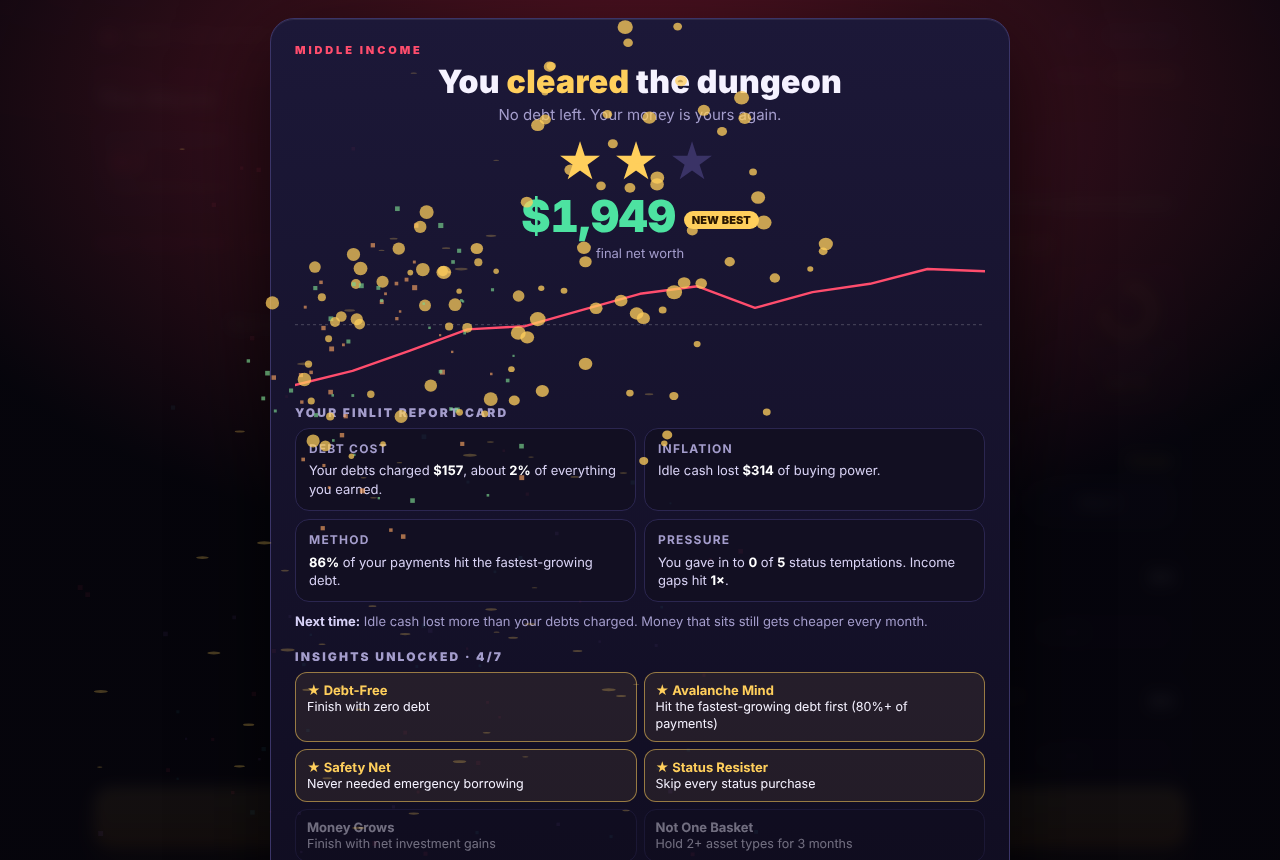
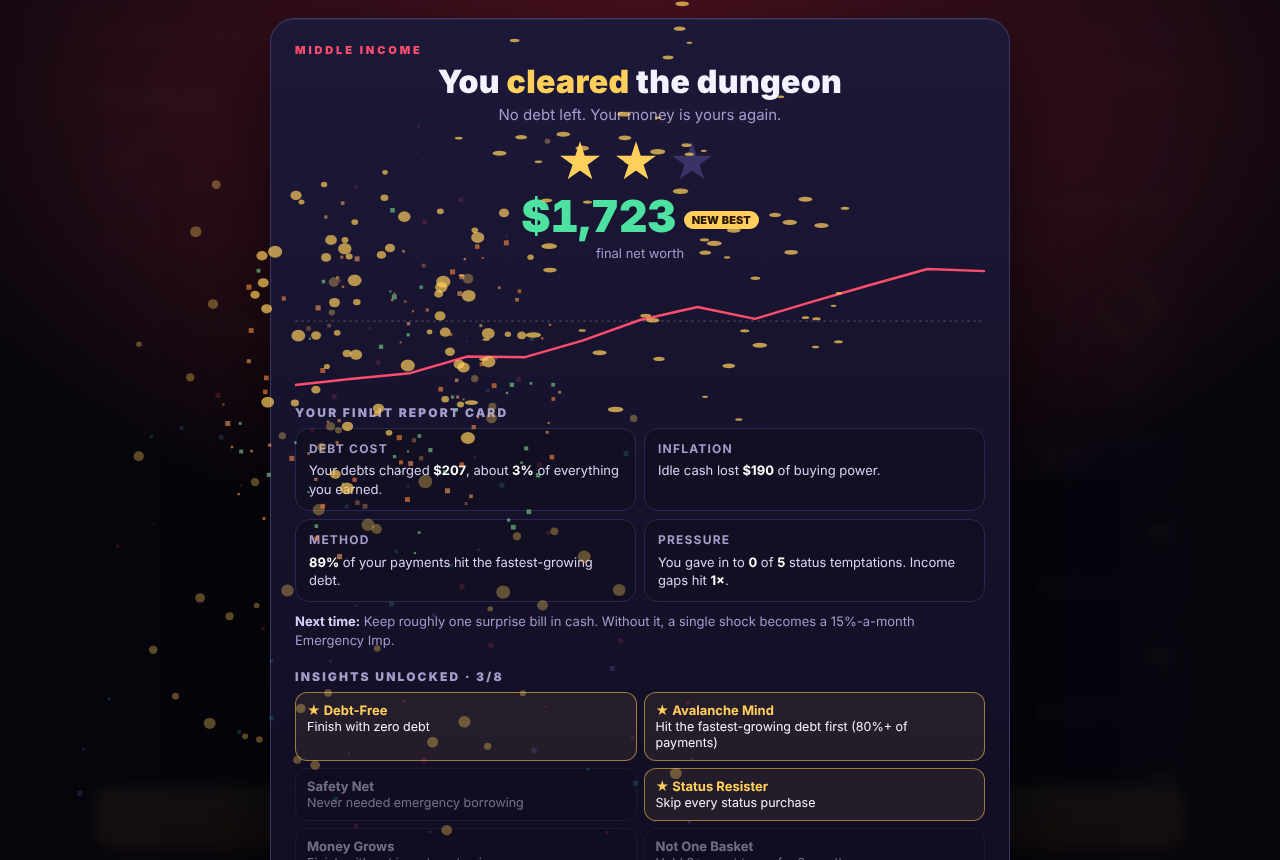
Add Insurance Shield mechanic, video script and budget draft
Claude-Session: https://claude.ai/code/session_018JD6s2syzimkdXhJeBHTZL

diff --git a/index.html b/index.html
@@ -131,6 +131,10 @@ main{display:grid;grid-template-columns:1.25fr 1fr;gap:14px}
 .nw b{font-size:20px;font-variant-numeric:tabular-nums}
 .nw .spark{grid-row:1/3;grid-column:2;width:120px;height:34px;justify-self:end;color:var(--accent)}
 .nw small{color:var(--mute);font-size:12px}
+.shield{margin-top:11px;display:flex;align-items:center;gap:11px;padding:11px 13px;border-radius:16px;border:1px solid #ffffff1f;background:#ffffff08}
+.shield.on{border-color:#4de2a1aa;background:#4de2a114}
+.shield .si{font-size:22px;width:30px;text-align:center}
+.shield .st{flex:1;min-width:0}.shield .st b{display:block;font-size:14.5px}.shield .st small{display:block;font-size:12px;color:var(--mute);line-height:1.35}
 .tempt{margin-top:11px;padding:13px 14px;border-radius:16px;border:1px dashed #6ea8ffaa;background:#6ea8ff12}
 .tempt small{display:block;font-size:10.5px;letter-spacing:.13em;font-weight:800;color:#9fc0ff}
 .tempt .tn{font-weight:800;margin:5px 0 9px;display:flex;justify-content:space-between;gap:8px;font-size:15.5px}
@@ -321,10 +325,10 @@ const ASSETS={
   dragon:{name:"Dragon Stock",exp:.040,desc:"≈ +4%/mo · wild swings"}
 };
 const EVENTS=[
-  {name:"Car breaks down",txt:"Repair bill",cash:-250,t:"bad"},
-  {name:"Medical bill",txt:"Unexpected clinic visit",cash:-300,t:"bad"},
+  {name:"Car breaks down",txt:"Repair bill",cash:-250,t:"bad",ins:1},
+  {name:"Medical bill",txt:"Unexpected clinic visit",cash:-300,t:"bad",ins:1},
   {name:"Rent goes up",txt:"Extra housing cost",cash:-150,t:"bad"},
-  {name:"Phone dies",txt:"Replacement needed",cash:-200,t:"bad"},
+  {name:"Phone dies",txt:"Replacement needed",cash:-200,t:"bad",ins:1},
   {name:"Surprise bonus",txt:"Work bonus",cash:200,t:"good"},
   {name:"Side gig",txt:"Weekend job pays",cash:120,t:"good"},
   {name:"Market boom",txt:"Investments jump",mkt:"boom",t:"good"},
@@ -343,6 +347,7 @@ const ACH=[
   {id:"stat",name:"Status Resister",desc:"Skip every status purchase"},
   {id:"grow",name:"Money Grows",desc:"Finish with net investment gains"},
   {id:"div",name:"Not One Basket",desc:"Hold 2+ asset types for 3 months"},
+  {id:"shield",name:"Shielded",desc:"Insurance paid out when disaster struck"},
   {id:"pro",name:"Dungeon Master",desc:"Earn 3 stars"}
 ];
 
@@ -509,8 +514,8 @@ function newGame(tier,mode){
   if(mode==="daily"){label=new Date().toISOString().slice(0,10);seed=hashStr(label+"|"+tier);R=mulberry32(seed)}else R=Math.random;
   const t0=TIERS[tier];
   S={tier,mode,label,seed,month:1,cash:t0.cash,assets:{vault:0,index:0,dragon:0},mons:[],pp:1,over:false,done:false,
-     stats:{interest:0,infl:0,inv:0,seen:0,bought:0,onCard:0,gap:0,pays:0,payOK:0,emerg:0,divMonths:0,acts:0},
-     status:0,temp:null,salaryMult:1,nid:1,busy:false,hist:[],income:t0.cash,lastNW:0,tok:0};
+     stats:{interest:0,infl:0,inv:0,seen:0,bought:0,onCard:0,gap:0,pays:0,payOK:0,emerg:0,divMonths:0,acts:0,insPaid:0,insSaved:0,insHit:0},
+     status:0,ins:false,temp:null,salaryMult:1,nid:1,busy:false,hist:[],income:t0.cash,lastNW:0,tok:0};
   addMon("card",t0.debts.card);addMon("student",t0.debts.student);addMon("shark",t0.debts.shark);
   S.hist=[netWorth()];S.lastNW=netWorth();
 }
@@ -524,6 +529,8 @@ function buyTemp(onCard){
   S.status+=10;S.stats.bought++;S.stats.acts++;S.temp=null;sfx.coin();flash("#6ea8ff");
   toast(onCard?"Bought on credit. The Wyrm just grew.":"Bought with cash. Status +10, wealth +0.");render();
 }
+const premium=()=>Math.max(1,Math.round(T().salary*.10));
+function toggleIns(){if(S.busy||S.over)return;S.ins=!S.ins;S.stats.acts++;sfx.coin();toast(S.ins?`Shield ON. ${fmt(premium())} a month, paid when the month ends.`:"Shield OFF. Disasters are on you.");render()}
 function skipTemp(){if(S.busy||S.over||!S.temp)return;S.temp=null;S.stats.acts++;sfx.coin();toast("Skipped. Future you says thanks.");render()}
 
 /* ---------- render ---------- */
@@ -575,6 +582,8 @@ function render(){
       <div class="tb"><button class="btn" data-tbuy="cash" ${S.cash<S.temp.cost?"disabled":""}>Buy with cash</button>
       <button class="btn" data-tbuy="card">Put it on credit</button>
       <button class="btn" data-tskip="1">Skip it</button></div></div>`:""}
+    <div class="shield ${S.ins?"on":""}"><div class="si">${S.ins?"🛡":"◇"}</div><div class="st"><b>Insurance Shield</b><small>${S.ins?"ON · covers 80% of car, medical and phone bills":"Costs "+fmt(premium())+"/month · covers 80% of car, medical and phone bills"}</small></div>
+      <button class="btn" data-ins="1" aria-pressed="${S.ins}">${S.ins?"Turn off":"Turn on"}</button></div>
     <div class="assets">${Object.keys(ASSETS).map(k=>{
       const a=ASSETS[k],v=S.assets[k],r=real(k),can=Math.min(S.cash,T().chunk),sell=Math.min(v,T().chunk);
       const g=(tutOn()&&step===1&&k==="index"&&can>0)?" glow":"";
@@ -638,6 +647,7 @@ function endMonth(){
   const loss=Math.round(S.cash*inf);S.cash-=loss;S.pp*=(1-inf);S.stats.infl+=loss;
   rep.push(["a",`▼ Inflation ${pct(inf)} ate your cash`,`−${fmt(loss)}`]);
   const ev=R()<T().evFreq?EVENTS[Math.floor(R()*EVENTS.length)]:null;
+  if(S.ins){const pr=Math.min(premium(),Math.max(0,S.cash));S.cash-=pr;S.stats.insPaid+=pr;rep.push(["a","🛡 Insurance premium",`−${fmt(pr)}`])}
   let gain=0;Object.keys(S.assets).forEach(k=>{const v=S.assets[k];if(v<=0)return;const nv=Math.round(v*(1+assetReturn(k,ev)));gain+=nv-v;S.assets[k]=nv});
   S.stats.inv+=gain;
   if(totalAssets()+Math.abs(gain)>0)rep.push([gain>=0?"g":"r",gain>=0?"▲ Investments grew":"▼ Investments fell",(gain>=0?"+":"−")+fmt(Math.abs(gain))]);
@@ -648,7 +658,8 @@ function endMonth(){
       const evc=sc(ev.cash);
       if(evc>=0){S.cash+=evc;rep.push(["g",`${ev.name}: ${ev.txt}`,`+${fmt(evc)}`])}
       else{
-        const cost=-evc;
+        let cost=-evc;
+        if(S.ins&&ev.ins){const cov=Math.round(cost*.8);cost-=cov;S.stats.insSaved+=cov;S.stats.insHit++;rep.push(["g","🛡 Shield covered 80% of the bill",`+${fmt(cov)}`])}
         if(S.cash>=cost){S.cash-=cost;rep.push(["r",`${ev.name}: ${ev.txt}`,`−${fmt(cost)}`])}
         else{
           const short=cost-S.cash;S.cash=0;addMon("emerg",short);S.stats.emerg++;
@@ -696,6 +707,7 @@ function unlocked(survived,stars){
   if(survived&&st.seen>=3&&st.bought===0)u.push("stat");
   if(survived&&st.inv>0)u.push("grow");
   if(st.divMonths>=3)u.push("div");
+  if(st.insHit>0)u.push("shield");
   if(stars===3)u.push("pro");
   return u;
 }
@@ -734,6 +746,7 @@ function finish(survived,m){
       <div class="tile"><b>METHOD</b>${st.pays?`<strong>${Math.round(st.payOK/st.pays*100)}%</strong> of your payments hit the fastest-growing debt.`:"You made no payments."}</div>
       <div class="tile"><b>PRESSURE</b>${st.seen?`You gave in to <strong>${st.bought}</strong> of <strong>${st.seen}</strong> status temptations${st.onCard?` (${st.onCard} on credit)`:""}.`:"No status temptations showed up."} ${st.gap?`Income gaps hit <strong>${st.gap}×</strong>.`:""}</div>
     </div>
+    ${st.insPaid||st.insHit?`<p class="note"><b>Insurance:</b> you paid <strong>${fmt(st.insPaid)}</strong> in premiums and it covered <strong>${fmt(st.insSaved)}</strong> of bills. ${st.insSaved>=st.insPaid?"This time it paid off. Even when it doesn't, you are buying protection from a crisis, not a profit.":"This time it cost more than it paid back. That is normal: insurance is a price for safety, and it matters most in the one month you can't afford."}</p>`:""}
     <p class="note"><b>Next time:</b> ${tipFor()}</p>
     ${real}
     <h2>INSIGHTS UNLOCKED · ${all.length}/${ACH.length}</h2>
@@ -815,8 +828,9 @@ function openHelp(){
     <dt>Inflation</dt><dd>Prices rise, so each dollar buys less. Cash loses value even while it sits still.</dd>
     <dt>Avalanche method</dt><dd>Pay the highest-rate debt first. It costs the least interest.</dd>
     <dt>Emergency fund</dt><dd>Cash set aside for surprises so one bad month does not become debt.</dd>
+    <dt>Insurance</dt><dd>You pay a small, certain cost so a big, uncertain one cannot wreck you. It will not cover everything (a party or a rent rise is on you).</dd>
     <dt>Diversification</dt><dd>Spreading money across assets so one crash cannot sink you.</dd></dl>
-    <p class="note">Shortcuts: <kbd>1</kbd>–<kbd>9</kbd> pay a monster (<kbd>Shift</kbd> = pay all) · <kbd>Enter</kbd> or <kbd>E</kbd> end month · <kbd>?</kbd> this help</p>
+    <p class="note">Shortcuts: <kbd>1</kbd>–<kbd>9</kbd> pay a monster (<kbd>Shift</kbd> = pay all) · <kbd>I</kbd> insurance · <kbd>Enter</kbd> or <kbd>E</kbd> end month · <kbd>?</kbd> this help</p>
     <button class="go" id="closeHelp">GOT IT</button></div>`;
   o.classList.add("on");o.scrollTop=0;$("#closeHelp").onclick=closeHelp;try{$("#closeHelp").focus({preventScroll:true})}catch(e){}
 }
@@ -832,6 +846,7 @@ document.addEventListener("click",e=>{
   else if(t.dataset.sell)sell(t.dataset.sell);
   else if(t.dataset.tbuy)buyTemp(t.dataset.tbuy==="card");
   else if(t.dataset.tskip)skipTemp();
+  else if(t.dataset.ins)toggleIns();
   else if(t.dataset.mode){MODE=t.dataset.mode;store.set("mode",MODE);showTitle()}
   else if(t.dataset.tier){$("#ov").classList.remove("on");newGame(t.dataset.tier,MODE);render();beep(440,.1,"triangle");if(!store.get("tut"))say("Tutorial: tap PAY on the fastest-growing debt.")}
   else if(t.id==="helpLink"||t.id==="help")openHelp();
@@ -847,10 +862,11 @@ document.addEventListener("keydown",e=>{
   if(e.key==="Enter"){if(!btn){e.preventDefault();endMonth()}return}
   if(e.key==="e"||e.key==="E"){endMonth();return}
   if(e.key==="?"){openHelp();return}
+  if(e.key==="i"||e.key==="I"){toggleIns();return}
   const n=parseInt(e.key,10);if(n>=1&&n<=S.mons.length)pay(S.mons[n-1].id,e.shiftKey);
 });
 setSound(A.on);
-window.__game={get S(){return S},endMonth,pay,invest,sell,newGame,render,buyTemp,skipTemp,rollTemptation,showTitle,drawCard,starsFor,seed:n=>{R=mulberry32(n)}};
+window.__game={get S(){return S},endMonth,pay,invest,sell,newGame,render,buyTemp,skipTemp,rollTemptation,showTitle,drawCard,starsFor,toggleIns,seed:n=>{R=mulberry32(n)}};
 bgInit();fxInit();newGame("mid",MODE);render();showTitle();
 })();
 </script>

diff --git a/docs/GDD.md b/docs/GDD.md
@@ -38,6 +38,7 @@ Most money games teach one concept at a time. Real money problems arrive togethe
 | Safety Net | Cash ÷ a typical surprise bill. Under 1× the gauge turns red. | Emergency fund |
 | Events | Repair, medical, rent rise, celebration, bonus, side gig, market boom/crash, income gap. Without cash, a bill spawns a 15%/month Emergency Imp. | Shocks, single-income risk |
 | Status temptations | Optional "everyone has one" purchases. Cash or credit; both raise a status score that does not build wealth. | Lifestyle inflation, credit use |
+| Insurance Shield | Optional. Premium 10% of pay each month; covers 80% of car, medical and phone bills (not rent rises or celebrations). Roughly break-even over a run; its value is avoiding the one bad month. | Insurance, risk transfer |
 | Floors | Months 1–4 Cellar, 5–8 Vaults, 9–12 Abyss. New monsters appear and inflation rises. | Changing conditions |
 
 **Income tiers:** Low ($350/mo), Middle ($600), High ($1,500). All values scale together so the dynamics are identical.
@@ -54,7 +55,7 @@ At the end of every run the player gets a *FinLit report card* computed from the
 - **Pressure:** status temptations accepted, credit use, income gaps.
 - One personalised tip chosen from the weakest area.
 
-Seven unlockable insights reward good habits (Debt-Free, Avalanche Mind, Safety Net, Status Resister, Money Grows, Not One Basket, Dungeon Master).
+Eight unlockable insights reward good habits (Debt-Free, Avalanche Mind, Safety Net, Status Resister, Money Grows, Not One Basket, Shielded, Dungeon Master). The report card also shows premiums paid against bills covered.
 
 ## 7. Audience
 
@@ -74,13 +75,13 @@ Single-file HTML/CSS/JS, no dependencies, hosted statically. Canvas (particles, 
 
 ## 10. Current scope (delivered in the jam build)
 
-Full 12-month game, 6 monsters, 3 assets, 10 events, 6 status temptations, 3 income tiers, Daily Dungeon, tutorial, report card, 7 insights, share image, help screen, responsive layout.
+Full 12-month game, 6 monsters, 3 assets, insurance, 10 events, 6 status temptations, 3 income tiers, Daily Dungeon, tutorial, report card, 8 insights, share image, help screen, responsive layout.
 
 ## 11. Roadmap if funded
 
 1. **Localisation:** translate the UI and examples; region packs for local financial products (the rules stay universal).
 2. **Teacher mode:** shareable class codes, a results summary, discussion prompts for each insight.
-3. **More depth:** minimum-payment mechanic, debt consolidation, insurance, longer careers, more floors.
+3. **More depth:** minimum-payment mechanic, debt consolidation, longer careers, more floors.
 4. **Packaging:** installable web app and store builds for phones.
 5. **Evaluation:** with a partner, measure learning outcomes before and after play.
 

diff --git a/docs/VIDEO_SCRIPT.md b/docs/VIDEO_SCRIPT.md
@@ -1,0 +1,17 @@
+# 2-minute gameplay video: script and shot list
+
+**Goal:** a viewer understands the game in 10 seconds, sees the key lesson, and wants to try it. Record the screen at 1280×720 (desktop) with a short phone clip for the mobile shot. Voice-over in calm, confident English; captions on.
+
+| Time | Screen | Voice-over |
+|---|---|---|
+| 0:00–0:08 | Title screen, slow push-in. Text: "Debt grows. Cash melts. Your move." | "Debt grows. Cash melts. And nobody tells you how fast." |
+| 0:08–0:20 | Pick Middle income. Monsters appear with their % labels. | "This is Debt & Inflation Dungeon. Every debt is a monster that grows every month. Your cash buys less every month too." |
+| 0:20–0:40 | Tutorial: tap PAY on the FASTEST monster. Defeat burst. Forecast numbers drop. | "Pay the fastest-growing one first. That is the avalanche method, and you just learned it by playing." |
+| 0:40–0:55 | Invest in Index Totem; real-return label (+1.2% real). | "Cash melts to inflation. Invest and you fight back, but risk is real." |
+| 0:55–1:10 | Status temptation card ("Latest flagship phone"). Hover "Put it on credit", then show the Wyrm grow. | "Then life tempts you. Everyone has one. It feels reasonable. This is how the trap catches us all." |
+| 1:10–1:25 | End Month report: animated rows. A surprise bill with no cash spawns the Emergency Imp. Cut to Shield ON covering 80%. | "A surprise bill with no savings becomes a new monster at 15% a month. A small insurance cost can stop that." |
+| 1:25–1:40 | Switch to High income. Bigger numbers, same monsters. On-screen: "Rich or poor, the debt trap works the same way." | "Earn more and the numbers grow, but so do the temptations. Even high earners fall into the trap." |
+| 1:40–1:52 | End screen: stars, report card tiles, achievements, Share button. | "At the end you get a financial-literacy report card from your own choices." |
+| 1:52–2:00 | Daily Dungeon badge, then title card with the game name and "Play free in your browser". | "Play the Daily Dungeon, share your score, and learn why smart decisions get you out." |
+
+**Tips:** record a run you have rehearsed (use Daily Dungeon so it repeats); keep the cursor visible; turn game sound on and lower it under the voice-over; export MP4, under 2:00.

diff --git a/docs/BUDGET_DRAFT.md b/docs/BUDGET_DRAFT.md
@@ -1,0 +1,27 @@
+# Game budget: draft for the Zoud GameLab funding application
+
+> Draft only. The amounts below are **placeholders to replace with your real numbers and the fund size stated in the jam's rules**. I did not find a funding figure in the material I had, so none is assumed. Costs are in USD.
+
+## Principle
+Spend where it raises learning impact and reach: playtesting, localisation, art/sound polish, accessibility, and a small evaluation. Keep the budget realistic for a solo developer.
+
+| Category | What it pays for | Share of total | Amount (fill in) |
+|---|---|---|---|
+| Development time | Teacher mode, minimum payments, consolidation, longer careers | 40% | $____ |
+| Localisation | Professional translation (e.g. Arabic, Spanish, Bengali, Hindi), right-to-left layout | 15% | $____ |
+| Art and animation | Monster set expansion, floor backgrounds, UI polish | 12% | $____ |
+| Music and sound | Original loops per floor, effects | 8% | $____ |
+| Playtesting and evaluation | Sessions with 30–50 players, short before/after quiz, report | 12% | $____ |
+| Accessibility review | Screen-reader and colour-contrast audit | 5% | $____ |
+| Hosting, domain, tooling | Domain, analytics without personal data, build tools | 3% | $____ |
+| Contingency | Unplanned costs | 5% | $____ |
+| **Total** | | 100% | **$____** |
+
+## Milestones (suggested)
+1. Month 1: teacher mode and class codes; playtest round 1.
+2. Month 2: two language packs; accessibility audit fixes.
+3. Month 3: new mechanics (consolidation, minimum payments); evaluation report; public release.
+
+## Notes for the form
+- State clearly that the jam build is complete and playable today; the budget funds expansion, not a first version.
+- Keep the evaluation small and honest: report what players learned, not a guarantee.

diff --git a/README.md b/README.md
@@ -28,6 +28,7 @@ You have 12 months. Each month you decide what to do with your cash, then press 
 | Three assets: steady, mixed, wild | Risk vs. return and diversification |
 | Optional "everyone has one" purchases that feel reasonable | Status spending, and how credit makes it worse |
 | "Income gap" events halve your next paycheck | The risk of a single income |
+| Optional Insurance Shield: a monthly premium (10% of pay) covers 80% of car, medical and phone bills, but not rent rises or parties | Insurance: a small certain cost against a big uncertain one |
 
 ### Three paychecks, one trap
 
@@ -39,13 +40,14 @@ A seeded mode: everyone who plays on the same day, at the same income level, get
 
 ### Scoring
 
-★ survive 12 months · ★★ finish debt-free · ★★★ debt-free with high net worth. Seven unlockable "insights" (Avalanche Mind, Safety Net, Status Resister…) are saved in your browser.
+★ survive 12 months · ★★ finish debt-free · ★★★ debt-free with high net worth. Eight unlockable "insights" (Avalanche Mind, Safety Net, Status Resister…) are saved in your browser.
 
 ## Controls
 
 | Key | Action |
 |---|---|
 | `1`–`9` | Pay the nth monster (`Shift` = pay all) |
+| `I` | Toggle insurance |
 | `Enter` / `E` | End month |
 | `?` | How to play |
 
@@ -75,6 +77,8 @@ Expected shape: doing nothing or going all-in on the wild asset loses; paying th
 ## Documents
 
 - [Game design document](docs/GDD.md)
+- [2-minute video script](docs/VIDEO_SCRIPT.md)
+- [Budget draft](docs/BUDGET_DRAFT.md)
 
 ## Credits
 
